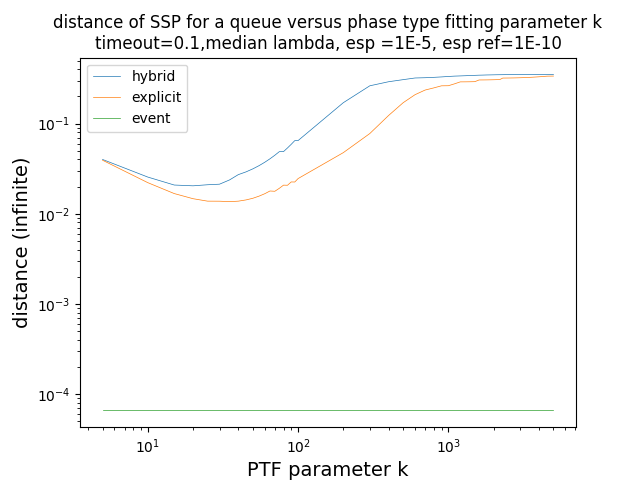
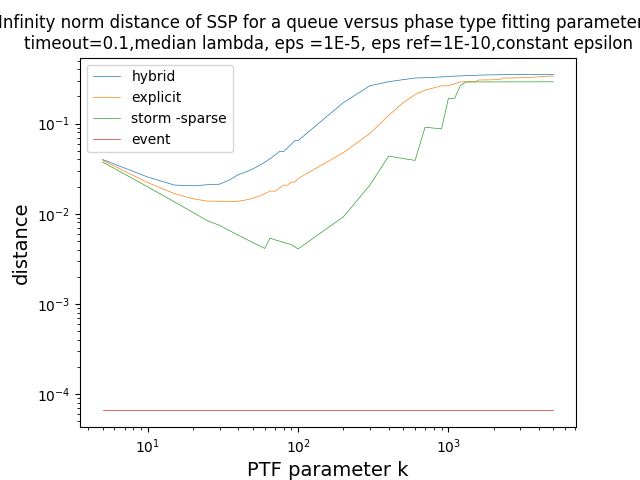
adding distance with storm

diff --git a/Python/curves.py b/Python/curves.py
@@ -11,6 +11,7 @@ path = '../Output/'
 eps = "1E-5"
 eps_precise = "1E-10"
 hybrid = 'hybrid'
+storm = 'storm'
 explicit = 'explicit'
 
 ########################################################################
@@ -187,6 +188,20 @@ def distance_k(t,kind_of_t,norm,kind_of_epsilon):
 		else:
 			result = norm_infinite(diff_array(y_event,y_k))
 		result_hybrid = np.append(result_hybrid, [result], axis=0)
+
+	#STORM
+	engine = "storm/"
+	full_path = path+subpath+storm+'/'	
+	
+	k_storm = read_float(full_path+'ph_k_array')					#load the bottom line for explicit
+	result_storm = np.array([])											
+	for k in k_storm:
+		y_k = read_float(full_path+'ph_'+n+'_'+str(int(k))+'_'+eps)
+		if (norm == "norm_2"):
+			result = norm_2(diff_array(y_event,y_k))
+		else:
+			result = norm_infinite(diff_array(y_event,y_k))
+		result_storm = np.append(result_storm, [result], axis=0)
 				
 	#PLOTING
 	plt.yscale('log')
@@ -194,11 +209,12 @@ def distance_k(t,kind_of_t,norm,kind_of_epsilon):
 	plt.xlabel('PTF parameter k', fontsize=14, color='black')
 	plt.ylabel('distance', fontsize=14, color='black')
 	if (norm=="infinite"):
-		plt.title('Infinity norm distance of SSP for a queue versus phase type fitting parameter k\ntimeout='+str(t)+','+kind_of_t+' lambda, eps ='+eps+', eps ref='+eps_precise)
+		plt.title('Infinity norm distance of SSP for a queue versus phase type fitting parameter k\ntimeout='+str(t)+','+kind_of_t+' lambda, eps ='+eps+', eps ref='+eps_precise+','+kind_of_epsilon+' epsilon')
 	else:
 		plt.title('Euclidean distance of SSP for a queue versus phase type fitting parameter k\ntimeout='+str(t)+','+kind_of_t+' lambda, eps ='+eps+', eps ref='+eps_precise)
 	plt.plot(k_hybrid, result_hybrid, label = "hybrid",linewidth=0.5)
 	plt.plot(k_explicit, result_explicit, label = "explicit",linewidth=0.5)
+	plt.plot(k_explicit, result_storm, label = "storm -sparse",linewidth=0.5)
 	plt.plot(k_explicit, [result_event]*len(k_explicit), label = "event",linewidth=0.5)
 
 
